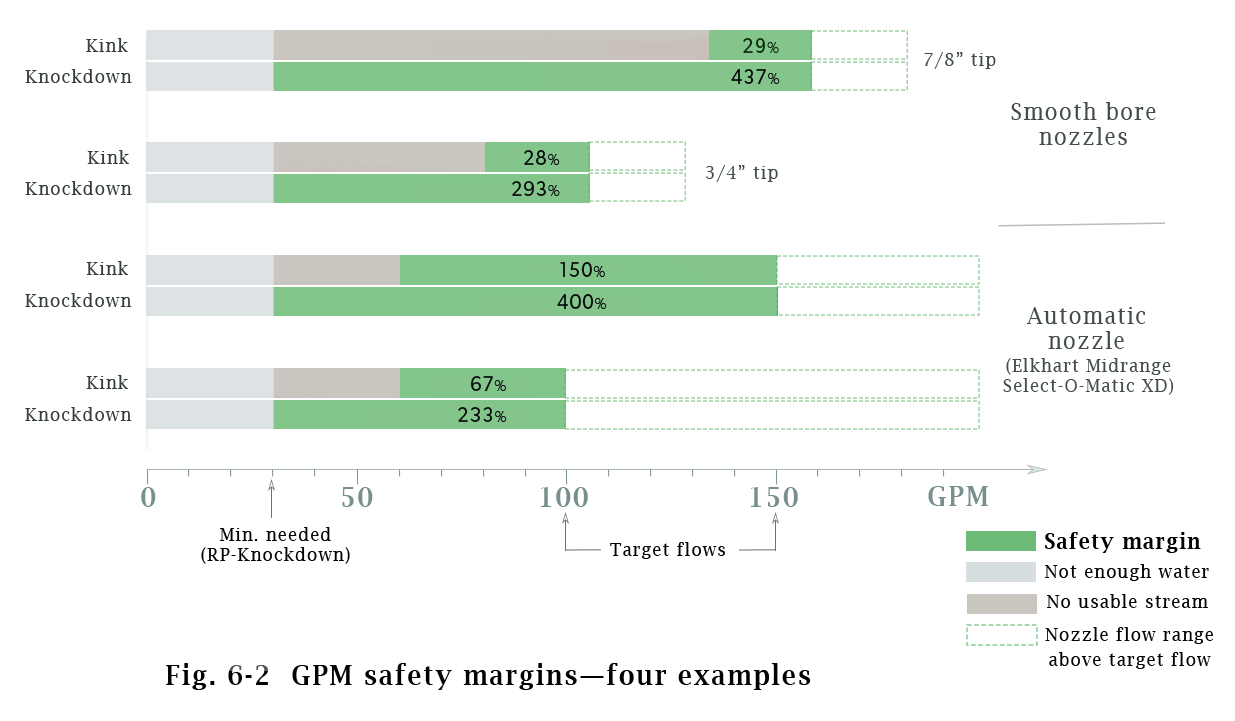
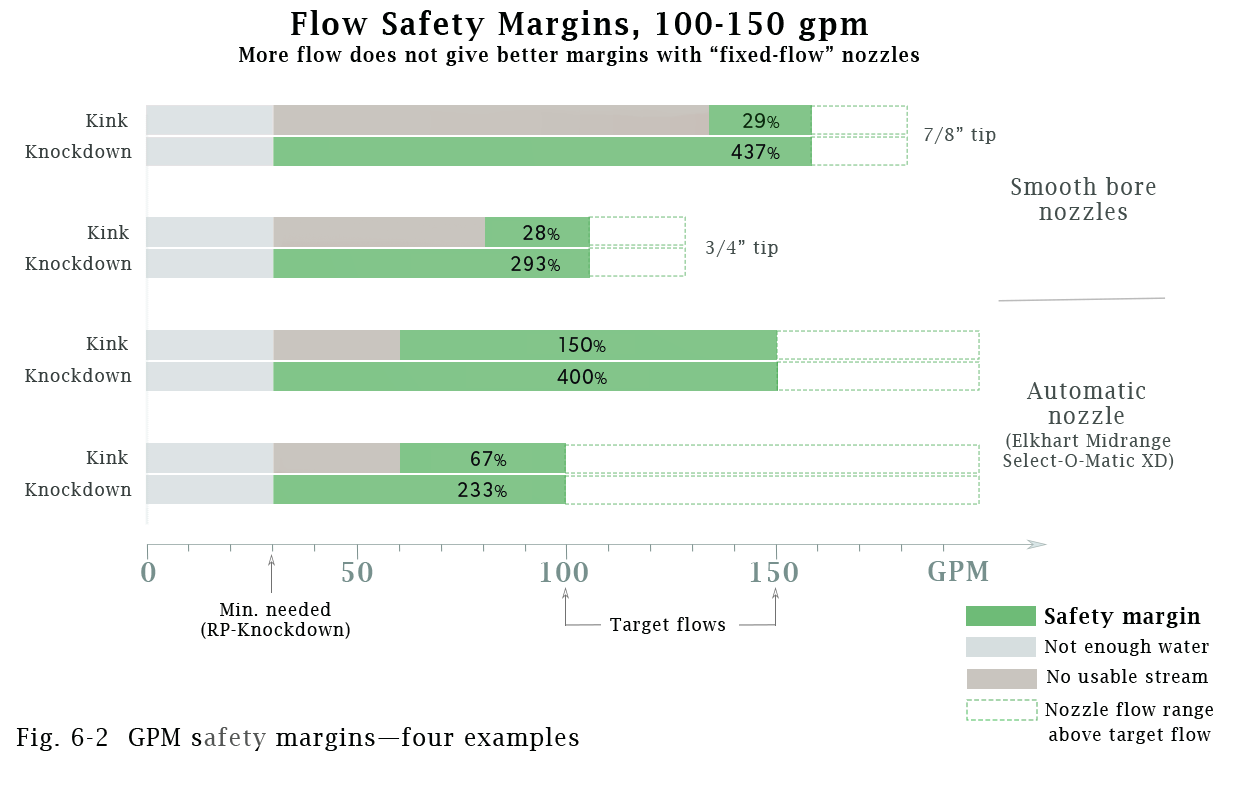
Title replaced on Flow Safety Margin graphic.  Minor grammar cleanup

diff --git a/AutomaticNozzles.html b/AutomaticNozzles.html
@@ -49,7 +49,7 @@
  <div id="DocSubtitle"><span style="font-size:9px;line-height:80%">By 
      <span class = "tooltip">Bob Bourgeois<span class="tooltipcontent"><span class="tooltiptext" >Bob is a former District Fire Chief (FF 40 yrs),  former LLC owner (public safety case studies), BSME Columbia Univ</span></span></span></span><br>
         With input from
-        <span class = "tooltip">Joe Maloney<span class="tooltipcontent"><span class="tooltiptext" >Joe is a former District Fire Chief (FF 32 yrs, 19 as District Chief),  </span></span></span></span><br>     
+        <span class = "tooltip">Joe Maloney<span class="tooltipcontent"><span class="tooltiptext" >Joe is a former District Fire Chief (FF 32 yrs, 19 as District Chief),  </span></span></span><br>     
 	<span style="font-size:.5rem;line-height:.2">1st draft 22Jul21&nbsp;&nbsp;&nbsp;&nbsp; Latest rev 19Dec23<br>Feedback/Qs roomfiresetc@gmail.com</span></div> 
 	
 	
@@ -66,7 +66,7 @@
 	
 <p>They both combine the benefits of <strong>wide </strong>
 		<span class = "tooltip"><strong>operating ranges</strong><span class="tooltipcontent"><span class="tooltiptext" >A nozzle's operating range is the range of flows that will produce a usable stream.&nbsp; Precise limits are arguable, but comparisons are valid.</span></span></span> 
-	with the benefits of <strong>adjustable </Strong>
+	with the benefits of <strong>adjustable </strong>
 		<span class = "tooltip"><strong>spray patterns.</strong><span class="tooltipcontent"><span class="tooltiptext" >Straight stream, narrow cone, wide cone etc</span></span></span>
 	
 	&nbsp; Automatics are also the easiest to use (if you don’t overthink things).
@@ -85,7 +85,7 @@
 	&nbsp;  If a kink reduces the flow below the minimum, the line may be useless.
 </p>     
     
-<p><figure style="margin-left:inherit;padding-left:2%;width:20%;Margin-top:.1em;Float:right"/><img src="images/Kink.png"  alt="Stream from a nozzle that is useless because of a kink in the hose" style="width:100%;Padding-right:1.6em;"><figcaption style = "font-size:.8em;">Fig. 3-2&nbsp;  Kinks ruin your stream</figcaption></figure></p>	
+<p><figure style="margin-left:inherit;padding-left:2%;width:20%;Margin-top:.1em;Float:right"><img src="images/Kink.png"  alt="Stream from a nozzle that is useless because of a kink in the hose" style="width:100%;Padding-right:1.6em;"><figcaption style = "font-size:.8em;">Fig. 3-2&nbsp;  Kinks ruin your stream</figcaption></figure></p>	
 	
 
 <p> Your 

diff --git a/Cocklofts.html b/Cocklofts.html
@@ -49,7 +49,7 @@
 <div id="DocSubtitle"><span style="font-size:9px;line-height:80%">By 
     <span class = "tooltip">Bob Bourgeois<span class="tooltipcontent"><span class="tooltiptext" >Bob is a former District Fire Chief (FF 40 yrs),  former LLC owner (public safety case studies), BSME Columbia Univ</span></span></span></span><br>
         With input from
-        <span class = "tooltip">Joe Maloney<span class="tooltipcontent"><span class="tooltiptext" >Joe is a former District Fire Chief (FF 32 yrs, 19 as District Chief),  </span></span></span></span><br>    
+        <span class = "tooltip">Joe Maloney<span class="tooltipcontent"><span class="tooltiptext" >Joe is a former District Fire Chief (FF 32 yrs, 19 as District Chief),  </span></span></span><br>    
 	<span style="font-size:.5rem;line-height:.2">1st draft 9Aug21&nbsp;&nbsp; Latest rev 4Jan24<br>Feedback/Qs roomfiresetc@gmail.com</span></div> 
 	
 	
@@ -57,7 +57,7 @@
 	
 	
 	
-<p>Extinguishing a cockloft fire is about <Strong>wetting the burning fuel surfaces and ventilating skillfully</Strong>.</p>
+<p>Extinguishing a cockloft fire is about <strong>wetting the burning fuel surfaces and ventilating skillfully</strong>.</p>
 	
 <p>Gut reaction for many FFs is to “get ahead” of the fire and put water on its farthest reach.&nbsp; But control is not about hitting the leading edge.</p>
 	
@@ -91,7 +91,7 @@ yet.&nbsp; Applying water in that area can push the flame around, but it won't b
 	
 <br/>
 	
-<p>Try to <Strong>restrict the fire’s air supply</Strong> by limiting ceiling holes until you’re ready to put water where it's needed.&nbsp; Wind and the building’s cockloft vents may work against you, so be realistic in your expectations.</p>	
+<p>Try to <strong>restrict the fire’s air supply</strong> by limiting ceiling holes until you’re ready to put water where it's needed.&nbsp; Wind and the building’s cockloft vents may work against you, so be realistic in your expectations.</p>	
 	
 <p>No easy rule governs roof ventilation.&nbsp;  Make your decision based on conditions, available protective measures, and likely benefits.&nbsp;  A roof hole can have some combination of <strong>four possible objectives:</strong></p> 
 <ul>

diff --git a/GPM.html b/GPM.html
@@ -43,14 +43,14 @@
 		  <num>6 of 6</num>
         </div> 
       </nav>	  
-    <num2>6)</num2>GPM & Safety Margins etc&nbsp;&nbsp;&nbsp;<br>
+    <num2>6)</num2>GPM and Safety Margins etc&nbsp;&nbsp;&nbsp;<br>
     
   </h1>
 	
 <div id="DocSubtitle"><span style="font-size:9px;line-height:80%">By 
     <span class = "tooltip">Bob Bourgeois<span class="tooltipcontent"><span class="tooltiptext" >Bob is a former District Fire Chief (FF 40 yrs),  former LLC owner (public safety case studies), BSME Columbia Univ</span></span></span></span><br>
         With input from
-        <span class = "tooltip">Joe Maloney<span class="tooltipcontent"><span class="tooltiptext" >Joe is a former District Fire Chief (FF 32 yrs, 19 as District Chief),  </span></span></span></span><br>    
+        <span class = "tooltip">Joe Maloney<span class="tooltipcontent"><span class="tooltiptext" >Joe is a former District Fire Chief (FF 32 yrs, 19 as District Chief),  </span></span></span><br>    
 	<span style="font-size:.5rem;line-height:.2">1st draft 30Aug22&nbsp;&nbsp; Latest rev 02Jan24<br>Feedback/Qs roomfiresetc@gmail.com</span></div> 
 	
 	
@@ -93,7 +93,7 @@
 <p>As with most safety margins, distance above the reference point will limit the benefit of a margin increase.&nbsp; If your RP is 30, a flow increase from 40 to 60 would be valuable.&nbsp; A boost from 140 to 160 would not.&nbsp; It’s unlikely that the higher numbers would ever come into play.</p><p>&nbsp;</p>
 	
 <p>
-	<img src="images/GPMsafetyMargins.png"  alt="" style="width:52%;margin-left:22%"/>
+	<img src="images/GPMsafetyMargins.png"  alt="" style="width:60%;margin-left:19%"/>
 	
 </p>
 	

diff --git a/PorchFires.html b/PorchFires.html
@@ -47,7 +47,7 @@
  <div id="DocSubtitle"><span style="font-size:9px;line-height:80%">By 
      <span class = "tooltip">Bob Bourgeois<span class="tooltipcontent"><span class="tooltiptext" >Bob is a former District Fire Chief (FF 40 yrs),  former LLC owner (public safety case studies), BSME Columbia Univ</span></span></span></span><br>
         With input from
-        <span class = "tooltip">Joe Maloney<span class="tooltipcontent"><span class="tooltiptext" >Joe is a former District Fire Chief (FF 32 yrs, 19 as District Chief),  </span></span></span></span><br>     
+        <span class = "tooltip">Joe Maloney<span class="tooltipcontent"><span class="tooltiptext" >Joe is a former District Fire Chief (FF 32 yrs, 19 as District Chief),  </span></span></span><br>     
 	<span style="font-size:.5rem;line-height:.2">1st draft 12Jul21&nbsp;&nbsp;&nbsp;&nbsp; Latest rev 7Nov23<br>Feedback/Qs roomfiresetc@gmail.com</span></div> 
 	
 </header>	

diff --git a/FlameLength.html b/FlameLength.html
@@ -48,7 +48,7 @@
 <div id="DocSubtitle"><span style="font-size:9px;line-height:80%">By 
     <span class = "tooltip">Bob Bourgeois<span class="tooltipcontent"><span class="tooltiptext" >Bob is a former District Fire Chief (FF 40 yrs),  former LLC owner (public safety case studies), BSME Columbia Univ</span></span></span></span><br>
         With input from
-        <span class = "tooltip">Joe Maloney<span class="tooltipcontent"><span class="tooltiptext" >Joe is a former District Fire Chief (FF 32 yrs, 19 as District Chief),  </span></span></span></span><br>    
+        <span class = "tooltip">Joe Maloney<span class="tooltipcontent"><span class="tooltiptext" >Joe is a former District Fire Chief (FF 32 yrs, 19 as District Chief),  </span></span></span><br>    
 	<span style="font-size:.5rem;line-height:.2">1st draft 10Aug21&nbsp;&nbsp; Latest rev 12Nov23<br>Feedback/Qs roomfiresetc@gmail.com</span></div> 
 	
 	
